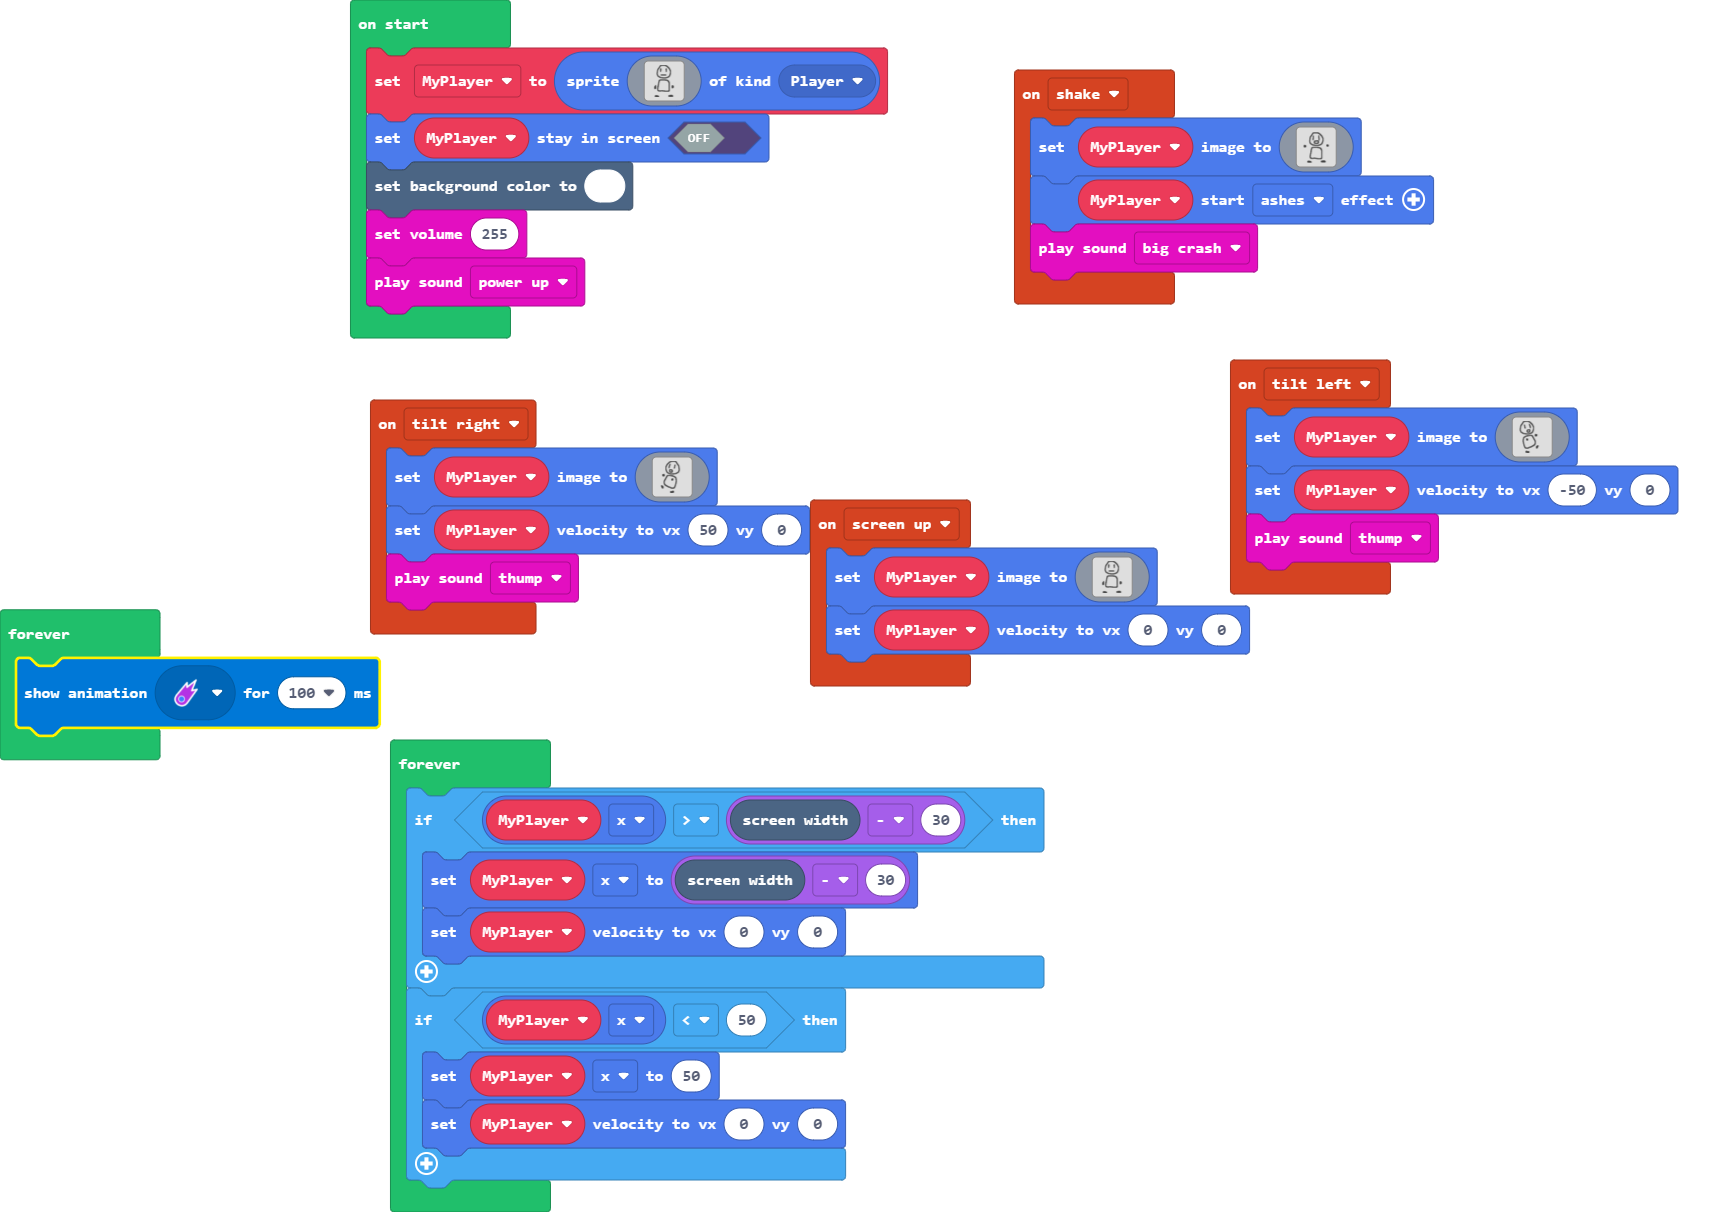
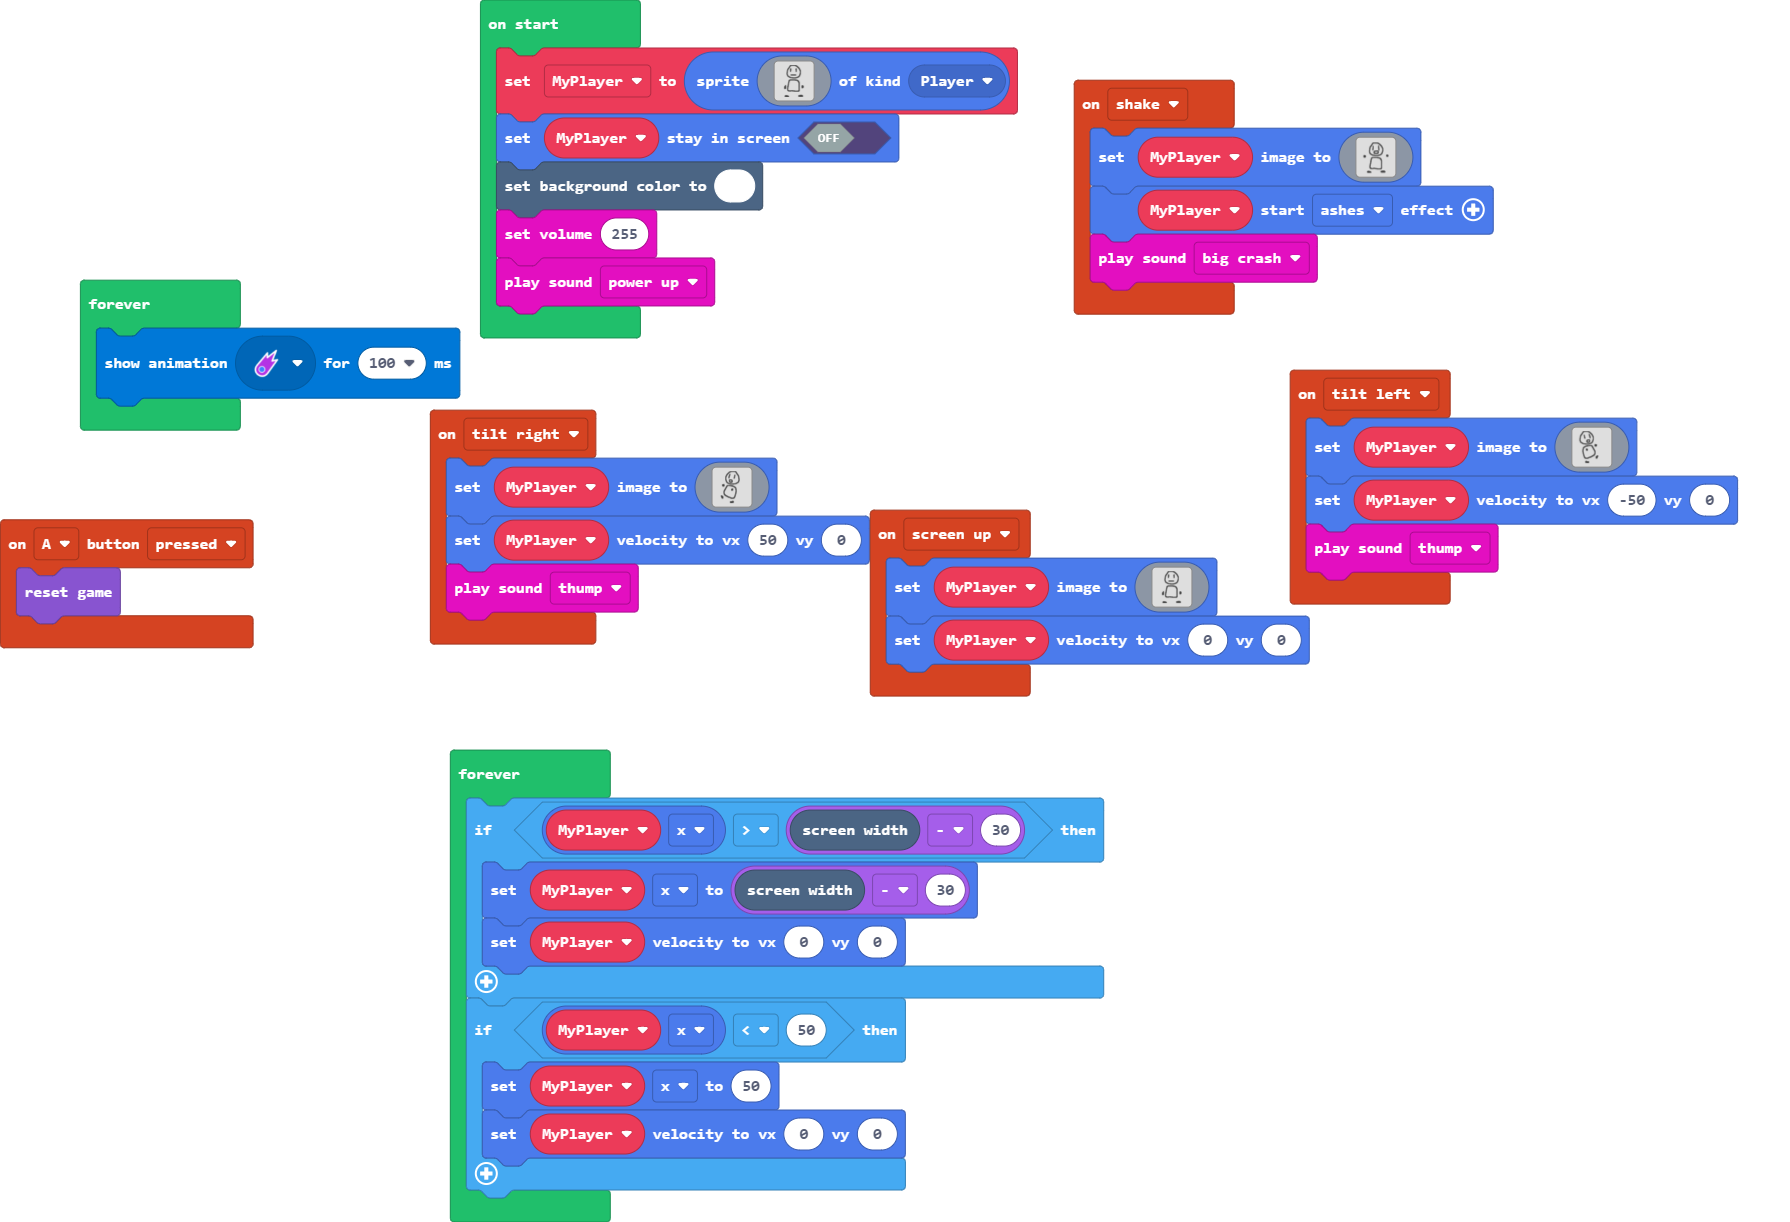
Update main.blocks, main.ts

Changed region(s): [[0.0, 0.0, 0.9676, 0.6411], [0.2185, 0.6106, 0.6243, 1.0]]

diff --git a/main.ts b/main.ts
@@ -7,6 +7,9 @@ controller.onGesture(ControllerGesture.TiltLeft, function () {
     MyPlayer.setVelocity(-50, 0)
     music.thump.play()
 })
+controller.A.onEvent(ControllerButtonEvent.Pressed, function () {
+    game.reset()
+})
 controller.onGesture(ControllerGesture.TiltRight, function () {
     MyPlayer.setImage(assets.image`Player Right`)
     MyPlayer.setVelocity(50, 0)
